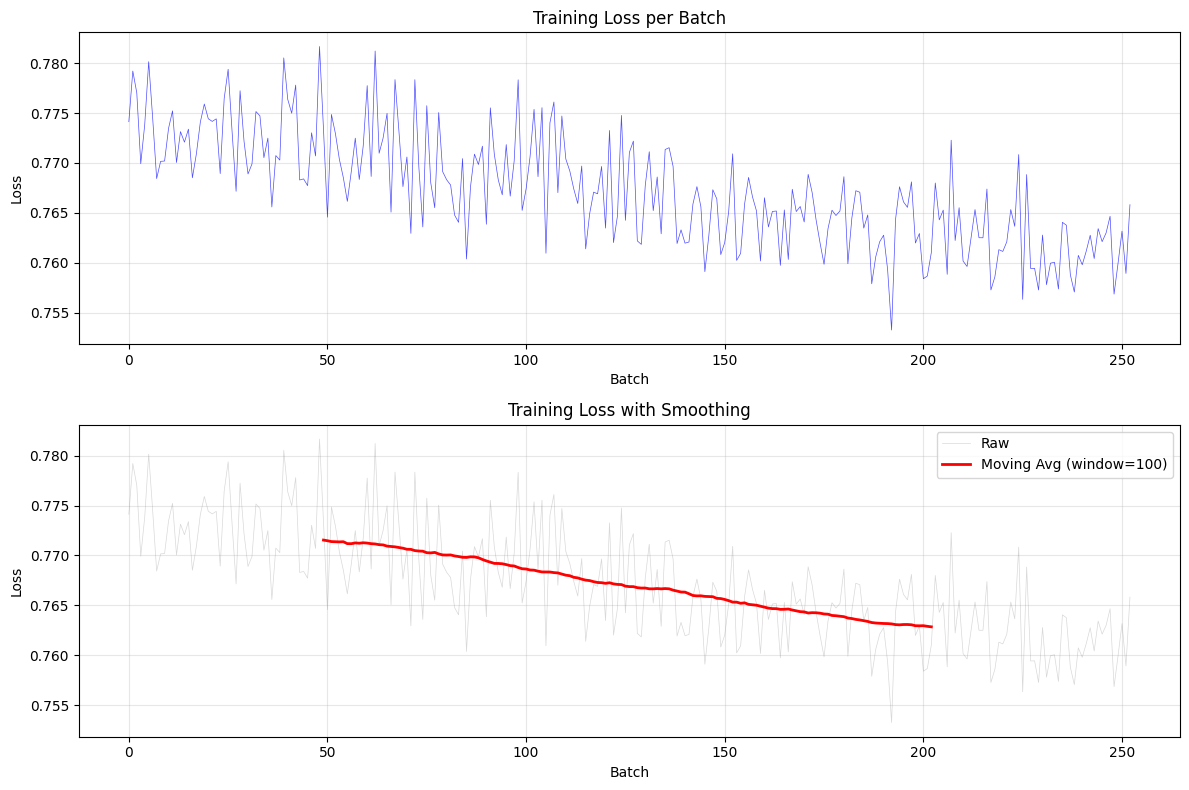
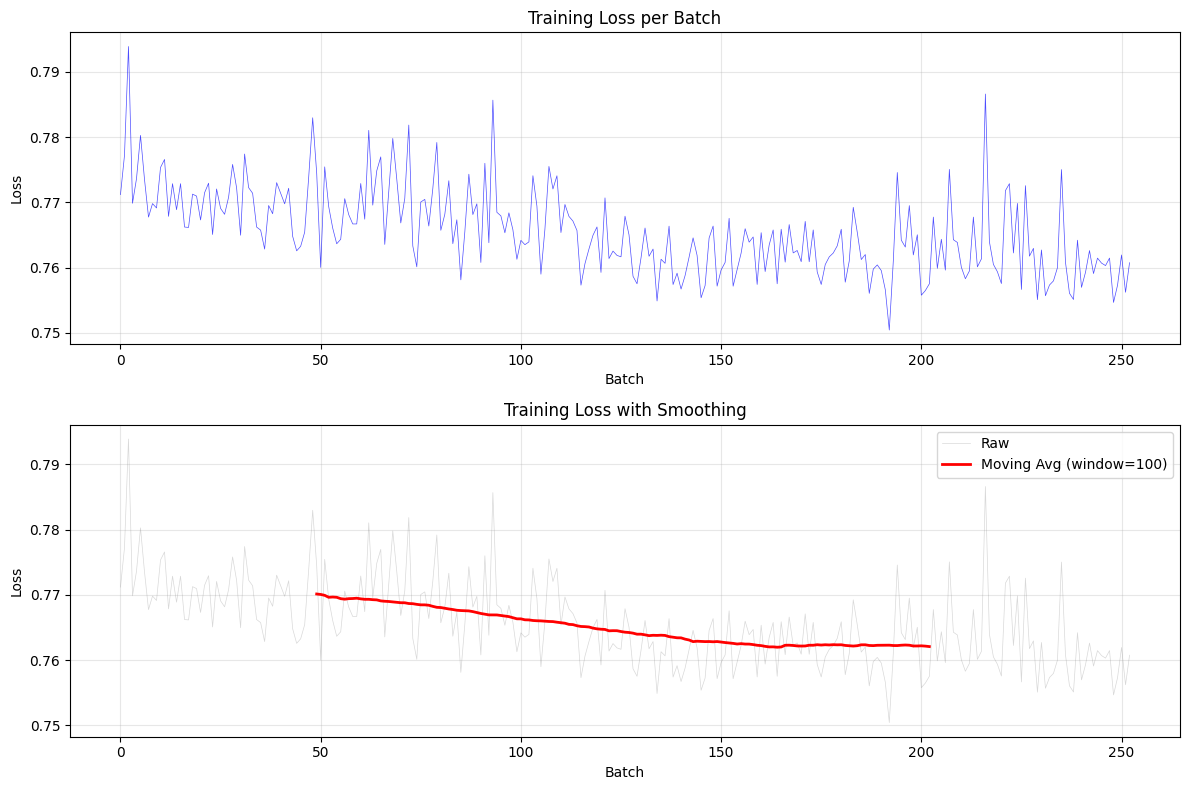
a

diff --git a/examples/language_modelling/signal/train_pytorch_single_gpu_config.py b/examples/language_modelling/signal/train_pytorch_single_gpu_config.py
@@ -169,15 +169,15 @@ def train_language_model():
     print(f"Using device: {device}")
 
     # Model Parameters
-    seq_len = 256
+    seq_len = 1024
     d_model = 512
-    num_layers = 32
+    num_layers = 16
     num_heads = 8
     dropout = 0.1
 
     # Hyperparameters
     epochs = 5
-    batch_size = 16 if torch.cuda.is_available() else 4
+    batch_size = 4 if torch.cuda.is_available() else 4
     eval_batch_size = 1
     accumulation_steps = 1
     base_lr = 3e-4
@@ -237,12 +237,12 @@ def train_language_model():
     vocab_size = train_tokenizer.get_vocab_size()
 
     def load_dao_teachings():
-        with open("dao_de_jing.json", "r", encoding="utf-8") as file:
+        with open("corpus.json", "r", encoding="utf-8") as file:
             chapters = json.load(file)
         random.shuffle(chapters)
         random.shuffle(chapters)
         texts = [chapter["text"] for chapter in chapters]
-        train_corpus = texts * 50
+        train_corpus = texts * 1
         random.shuffle(train_corpus)
         random.shuffle(train_corpus)
         random.shuffle(train_corpus)
@@ -272,19 +272,19 @@ def train_language_model():
     dtype = torch.bfloat16
     signal_configs = [
         SignalConfig(
-            signal_name="macro",
+            signal_name="frequency",
             torch_activation_function=torch.sigmoid,
             normalization=linear_norm(scale=20.0, offset=0.1),
-            num_dimensions=128
+            num_dimensions=32
         ),
         SignalConfig(
-            signal_name="micro",
+            signal_name="amplitude",
             torch_activation_function=torch.nn.functional.softplus,
             normalization=linear_norm(scale=1.0, offset=0.0),
-            num_dimensions=64
+            num_dimensions=32
         ),
         SignalConfig(
-            signal_name="nano",
+            signal_name="phase",
             torch_activation_function=torch.tanh,
             normalization=linear_norm(scale=np.pi, offset=0.0),
             num_dimensions=32
@@ -296,15 +296,14 @@ def train_language_model():
         signals=signal_configs,
         encoder_d_model=d_model,
         decoder_d_model=d_model,
-        encoder_num_layers=4,
-        decoder_num_layers=4,
         transformer_num_layers=num_layers,
         transformer_layer_config=TransformerParallelBlockConfig(num_heads_q=num_heads, num_heads_kv=num_heads,
                                                                 max_seq_len=seq_len, d_ff=input_dim * 4),
+        # 3 Signals with each 32 dimensions
         encoder_layer_config=TransformerParallelBlockConfig(num_heads_q=num_heads, num_heads_kv=num_heads,
                                                             max_seq_len=seq_len),
         max_seq_len=seq_len,
-        share_encoder_layer=True,
+        share_encoder_layer=True
     ).to(device)
 
     print("Model:\n", signal_transformer_model)

diff --git a/src/wave_transformer/core/signal_processor.py b/src/wave_transformer/core/signal_processor.py
@@ -14,41 +14,6 @@ from .transformer import TransformerParallelBlock, TransformerParallelBlockConfi
 import torch.nn.functional as F
 
 
-class LearnableActivation(nn.Module):
-    """Most expressive variant - learns both the curve AND the blend dynamically"""
-
-    def __init__(self, hidden_dim=16, num_layers=2):
-        super().__init__()
-
-        # Build deeper transformation if needed
-        layers = []
-        in_dim = 1
-        for _ in range(num_layers):
-            layers.extend([
-                nn.Linear(in_dim, hidden_dim),
-                nn.Tanh()  # or make this learnable too
-            ])
-            in_dim = hidden_dim
-        layers.append(nn.Linear(hidden_dim, 1))
-
-        self.mlp = nn.Sequential(*layers)
-        self.alpha = nn.Parameter(torch.tensor(0.1))
-
-        # Smart initialization
-        for m in self.mlp.modules():
-            if isinstance(m, nn.Linear):
-                nn.init.normal_(m.weight, std=0.01)
-                nn.init.zeros_(m.bias)
-
-    def forward(self, x: torch.Tensor) -> torch.Tensor:
-        shape = x.shape
-        x_flat = x.view(-1, 1)
-        learned = self.mlp(x_flat)
-        out = torch.sigmoid(self.alpha) * learned + (1 - torch.sigmoid(self.alpha)) * x_flat
-        return out.view(shape)
-
-
-
 class Encoder(nn.Module):
     def __init__(self, d_model: int, num_layers: int, encoder_layer_config: TransformerParallelBlockConfig,
                  d_out: int = None):
@@ -99,7 +64,6 @@ class SignalEncoder(nn.Module):
             else:
                 self.signal_output_encoders[output_signal.signal_name] = Encoder(d_model, num_layers, layer_config,
                                                                                  output_signal.num_dimensions)
-            self.signal_activations[output_signal.signal_name] = LearnableActivation(16, 4)
     def forward(self, token_ids: torch.Tensor, causal=True, attention_mask=None):
         x = self.embedding(token_ids) * self.scale
 
@@ -113,8 +77,8 @@ class SignalEncoder(nn.Module):
             else:
                 x_out = self.signal_output_encoders[output_signal.signal_name](x, causal=causal,
                                                                            attention_mask=attention_mask)
-            x_out = self.signal_activations[output_signal.signal_name](x_out)
-            #x_out = output_signal.normalization.apply(x_out)
+            x_out = output_signal.torch_activation_function(x_out)
+            x_out = output_signal.normalization.apply(x_out)
             signal_list.append(x_out)
 
         return MultiSignal.from_signals(signal_list)

diff --git a/examples/language_modelling/signal/wwta.py b/examples/language_modelling/signal/wwta.py
@@ -15,17 +15,21 @@ activations = {
     'ELU': nn.ELU(),
     'Softplus': nn.Softplus(),
     'GELU': nn.GELU(),
-    'SiLU (Swish)': nn.SiLU()
+    'SiLU (Swish)': nn.SiLU(),
+    'SELU': nn.SELU(),
+    'CELU': nn.CELU(),
+    'PReLU': nn.PReLU(),
+    'LogSigmoid': nn.LogSigmoid(),
 }
 
 # Create subplots
-fig, axes = plt.subplots(2, 4, figsize=(16, 8))
+fig, axes = plt.subplots(3, 4, figsize=(16, 12))
 axes = axes.flatten()
 
 # Plot each activation function
 for idx, (name, activation) in enumerate(activations.items()):
     y = activation(x)
-    axes[idx].plot(x.numpy(), y.numpy(), linewidth=2)
+    axes[idx].plot(x.numpy(), y.detach().numpy(), linewidth=2)
     axes[idx].set_title(name, fontsize=12, fontweight='bold')
     axes[idx].grid(True, alpha=0.3)
     axes[idx].axhline(y=0, color='k', linewidth=0.5)
